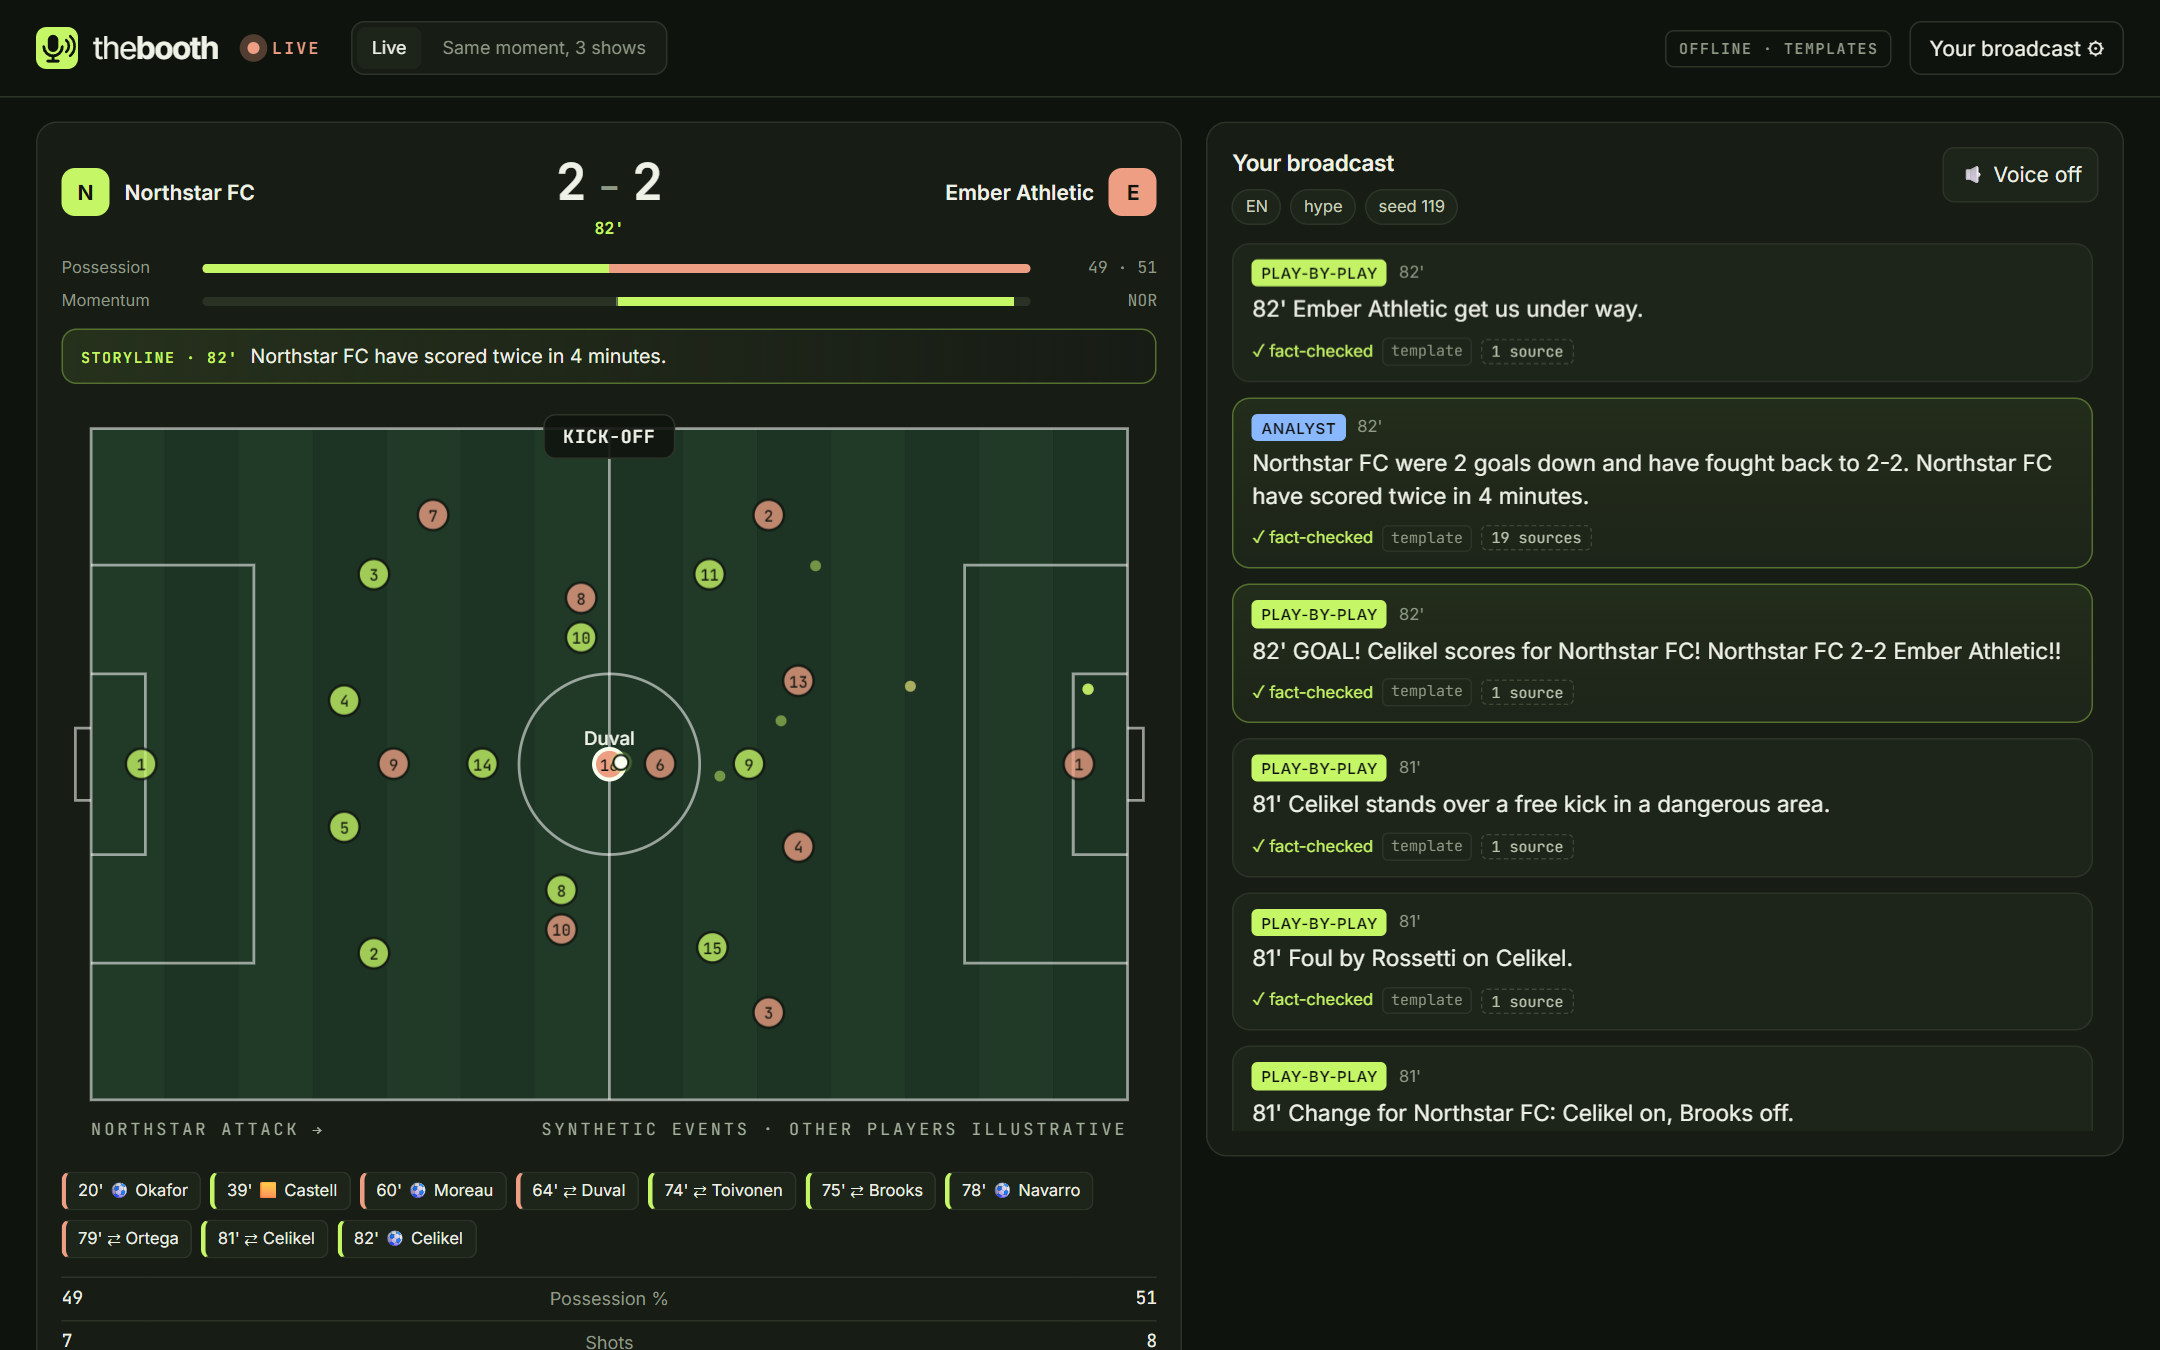
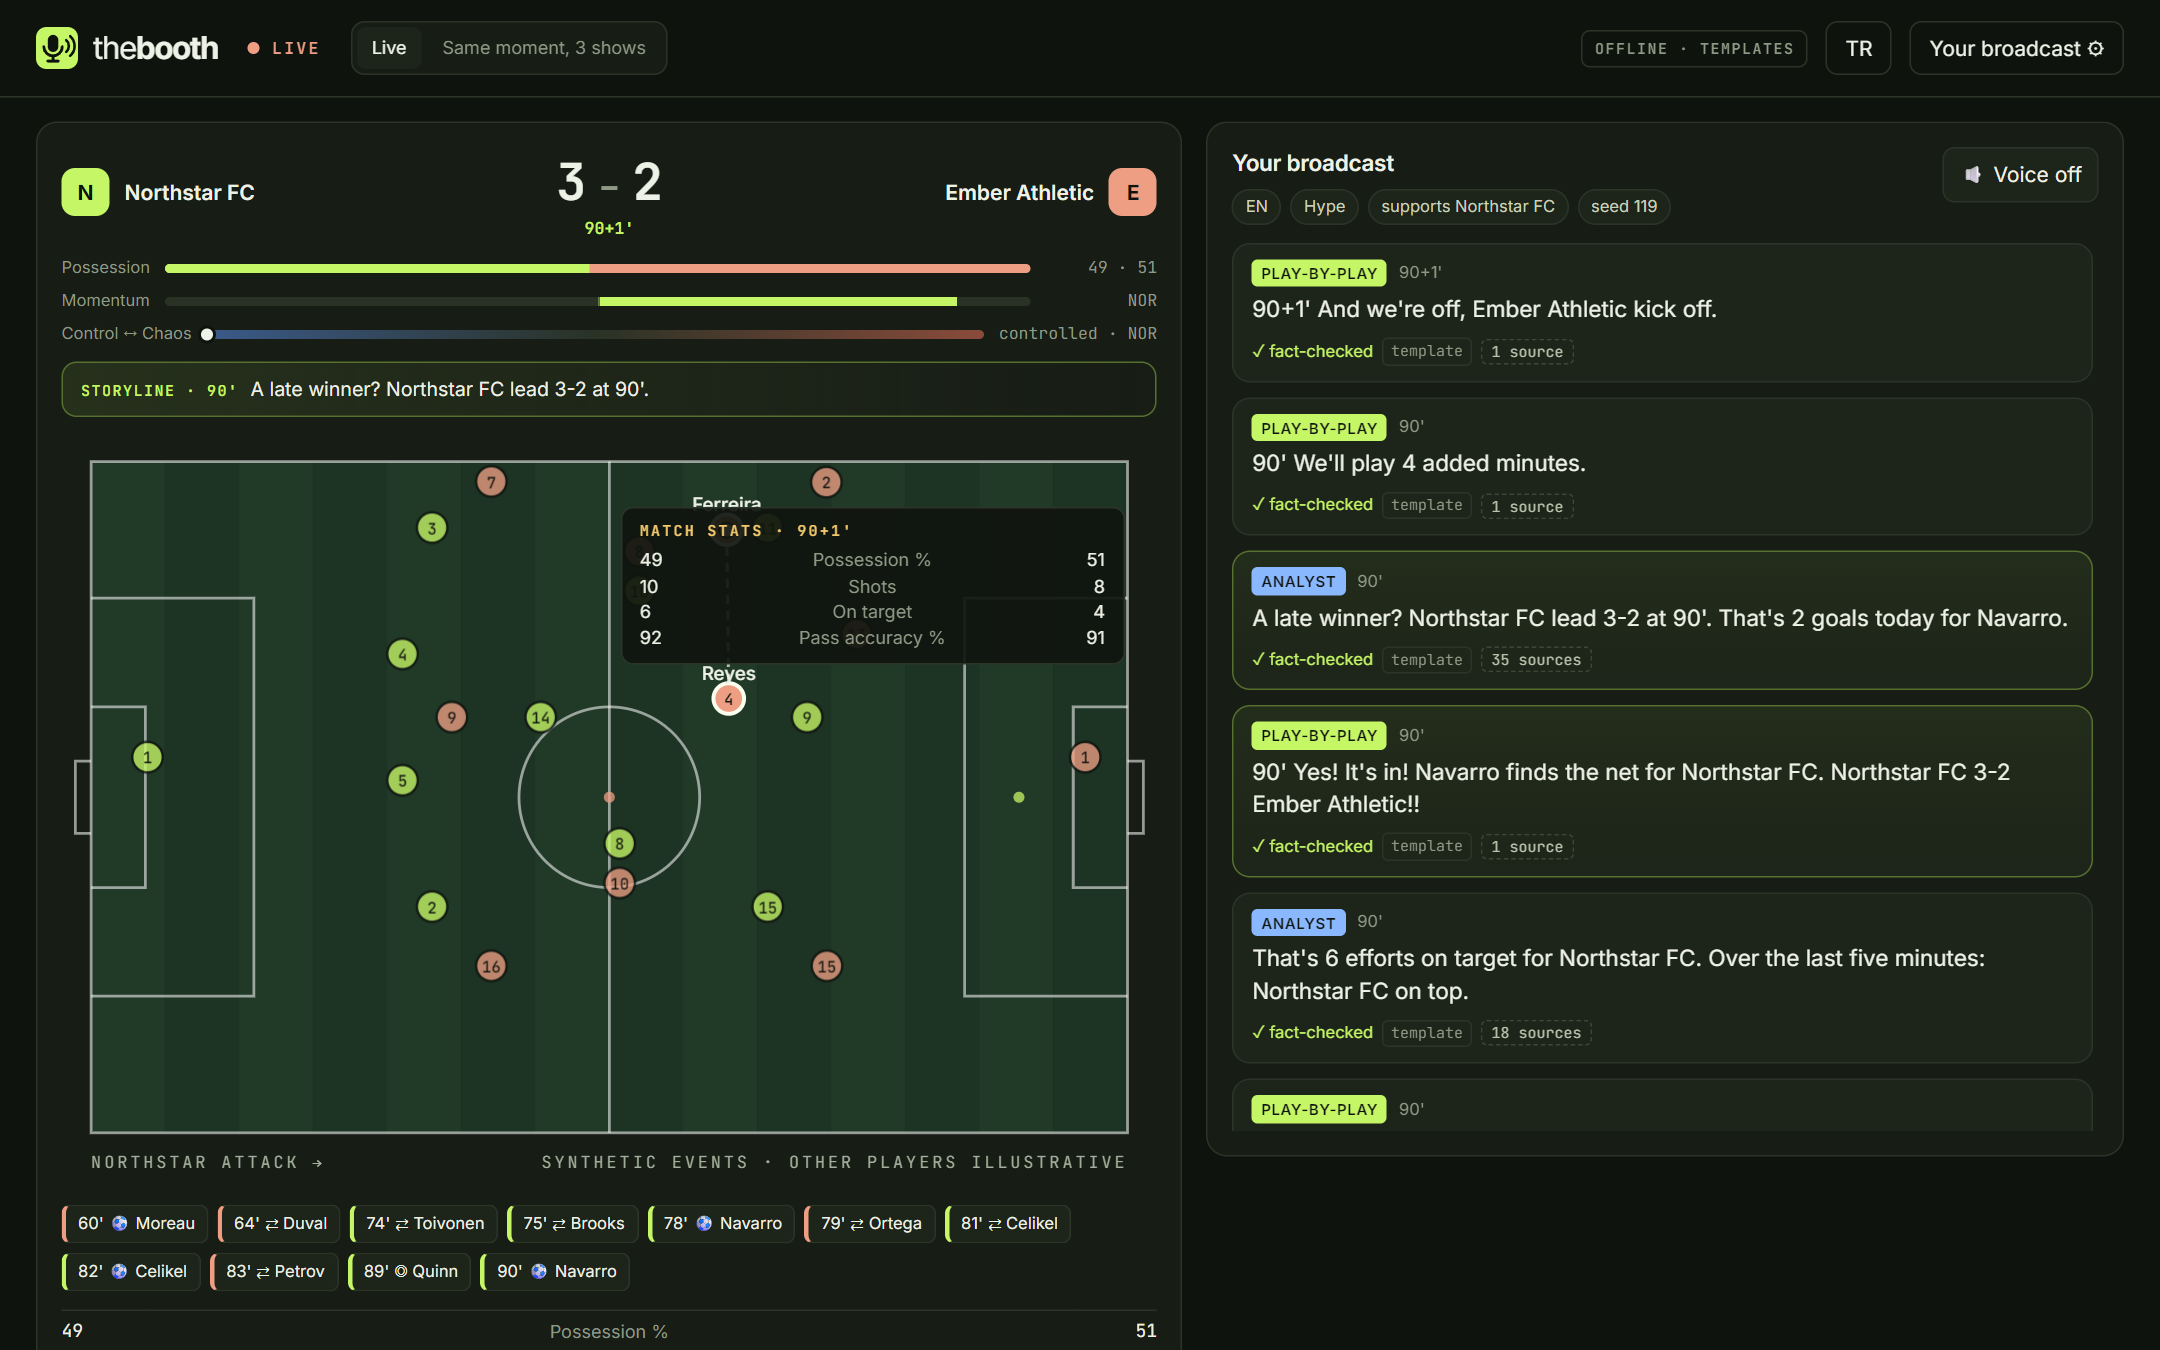
Map the brief in the README, add overlay/club browser test, refresh screenshots
- README: five-stage pipeline and suggested features, with what is and
  isn't covered (no running speed or video auto-eventing)
- Pitch and demo script mention metrics, favorite club and overlays
- Browser test for lower thirds, club mode and new stat rows
- Screenshots in English with club mode and overlays

diff --git a/frontend/styles.css b/frontend/styles.css
@@ -60,7 +60,7 @@ h2 { margin: 0; font-size: 15px; font-weight: 600; letter-spacing: -0.2px; }
 .score i { color: var(--muted); font-style: normal; font-size: 24px; }
 .score small { position: absolute; bottom: -2px; left: 50%; transform: translateX(-50%); font-size: 11px; color: var(--lime); }
 .bars { margin: 14px 0 10px; display: grid; gap: 6px; }
-.bar-row { display: grid; grid-template-columns: max-content 1fr 74px; align-items: center; gap: 10px; font-size: 11px; color: var(--muted); }
+.bar-row { display: grid; grid-template-columns: max-content 1fr minmax(74px, max-content); align-items: center; gap: 10px; font-size: 11px; color: var(--muted); }
 .bar-row > span:last-child { text-align: right; font-family: var(--mono); }
 .split-bar, .momentum { height: 6px; border-radius: 4px; background: var(--coral); overflow: hidden; position: relative; }
 .split-bar i { display: block; height: 100%; width: 50%; background: var(--lime); transition: width .6s; }

diff --git a/backend/tests/e2e/test_ui.py b/backend/tests/e2e/test_ui.py
@@ -124,3 +124,16 @@ def test_interface_switches_to_turkish_and_remembers_it(page, base_url):
     assert page.locator("#goLive").inner_text() == "Yayına başla"
     page.click("#uiLang")
     assert page.locator(".control-room h2").inner_text() == "Control room"
+
+
+def test_overlays_metrics_and_favorite_club(page, base_url):
+    page.goto(f"{base_url}/?live=1&seed=119&lang=en&style=hype&club=home&start=89&speed=10")
+    playwright_api.expect(page.locator("#lowerThird")).to_contain_text("GOAL", timeout=20_000)
+    playwright_api.expect(page.locator("#feed")).to_contain_text("Yes!")
+    assert "supports Northstar FC" in page.locator("#profileChips").inner_text()
+    stats = page.locator("#statsBody").inner_text()
+    assert "Pass accuracy %" in stats and "Fastest shot (km/h)" in stats
+    assert (
+        page.locator("#chaosLabel").inner_text() in ("controlled", "open", "chaotic")
+        or "·" in page.locator("#chaosLabel").inner_text()
+    )

diff --git a/README.md b/README.md
@@ -53,6 +53,31 @@ The **control room** panel shows every hand-off live: what the director planned,
 - **One crew, many viewers.** Segments are cached per (event, profile), and the English world feed is shared before localization, so viewers with the same profile don't cost extra model calls.
 - **No future leaks.** Agents read a frozen snapshot taken at the moment of the event.
 
+## How it meets the challenge
+
+The brief asks for one pipeline with five stages. Here is where each one lives:
+
+| Stage | In The Booth |
+|---|---|
+| **Ingest** synthetic events as they happen | Seeded generator (`booth/sim`) streams ~1,000 events per match (passes, tackles, interceptions, shots, possession changes, cards, set pieces, subs) on a live match clock |
+| **Interpret** into stats, patterns and context | Shared `MatchState`: score, possession, momentum, pass accuracy and difficulty, shot speed, rhythm (control vs chaos); the **storyline agent** finds comebacks, late winners, braces, quick-fire goals, spells of control |
+| **Explain** why a moment matters | Analyst, recap editor and guide explain moments with fact-checked numbers; every line links to its sources; rule explainers for newcomers |
+| **Render** on screen alongside the match | Pitch with all 22 players, storyline banner, stat rows and call-outs; **timed overlay cues** (score bug, lower thirds, stat cards, player tags) for a graphics engine: [docs/OVERLAYS.md](docs/OVERLAYS.md) |
+| **Personalize** for every fan | Language, style (hype, calm, tactical, new to football), audio-first mode, favorite club, followed player; "same moment, three shows" puts the difference side by side |
+
+And the suggested features:
+
+| Suggested in the brief | Status |
+|---|---|
+| Player identification with speed and distance indicators at thresholds | Players named on the pitch; shot speed and pass distance tags appear on the player at thresholds. Running speed and distance covered are **not** modeled (event data, no tracking) |
+| Pass quality: distance, accuracy, difficulty rating | Done: per-pass distance, metres gained, 0-100 difficulty; team pass accuracy |
+| Speed metrics: ball speed, shot speed | Done: synthetic estimates on every pass and shot |
+| Auto-eventing from a video feed | **Not in scope**: we generate synthetic events instead of reading video |
+| Narrative generation, milestones, recaps | Done: storyline agent, analyst, half and full-time recaps |
+| Explainability: control vs chaos, pressure changes, rhythm | Done: rhythm meter, momentum, storyline announcements when a team takes control or the game breaks up |
+| Data innovation: synthetic datasets | Done: `python -m booth.dataset` exports matches, events, players, storylines ([docs/DATASET.md](docs/DATASET.md)) |
+| Multi-language storytelling | English and Turkish templates; 12 languages with a model, translations refused if numbers change |
+
 ## Architecture
 
 ```mermaid
@@ -117,7 +142,7 @@ cd backend
 python -m booth.mcp_server            # stdio; add --http --port 8765 for streamable HTTP
 ```
 
-The MCP server exposes the stats desk and the crew as tools: `squads`, `highlights`, `score`, `team_stats`, `player_stats`, `storylines`, `events` and `broadcast_moment` (the fact-checked crew commentates one moment for a language and style). `.vscode/mcp.json` registers it for GitHub Copilot agent mode in VS Code.
+The MCP server exposes the stats desk and the crew as tools: `squads`, `highlights`, `score`, `team_stats`, `player_stats`, `storylines`, `events`, `overlay_cues` and `broadcast_moment` (the fact-checked crew commentates one moment for a language and style). `.vscode/mcp.json` registers it for GitHub Copilot agent mode in VS Code.
 
 ### Export the synthetic dataset
 
@@ -159,6 +184,7 @@ The tests include a scripted model that exercises the reject → rewrite hand-of
 | `GET /api/match/events?seed=42` | Full synthetic event log |
 | `GET /api/broadcast?seed=&lang=&style=&accessible=&follow=&speed=&start=` | Live broadcast as SSE: `hello`, `event`, `trace`, `segment`, `end` |
 | `POST /api/ask` | `{seed, minute, question, lang}`: answered from the stats desk at that minute |
+| `GET /api/overlays?seed=&lang=` | Timed overlay cues for broadcast graphics |
 | `GET /api/moments?seed=` | Highlights worth comparing (goals, penalties, red cards, big saves) |
 | `POST /api/tts` | `{text, lang}` → MP3 from Azure AI Speech (503 when not configured) |
 | `POST /api/compare` | `{seed, event_id, profiles?}`: the same moment broadcast for up to 4 profiles, with traces |

diff --git a/docs/PITCH.md b/docs/PITCH.md
@@ -8,7 +8,7 @@
 
 A live match is made by a crew (director, commentator, analyst, stats producer, translator), but that crew makes one show, in one language, for everyone. Fans who speak another language, people new to the game and blind or low-vision fans are left with a broadcast that wasn't made for them.
 
-The Booth replays synthetic, football-realistic match events and runs a multi-agent crew per viewer. A director agent decides what matters to *this* viewer. A storyline agent remembers the whole match, so the crew can say "they were two down and have fought back" instead of just "goal". A stats producer pulls context through tool calls on a shared match state. Play-by-play, analyst and recap agents write the broadcast. A fact-checker blocks any number or name it can't trace to the data and hands rejected drafts back for a rewrite. A localizer adapts the feed into the viewer's language and is refused if a number changes. An audio-first mode describes where the ball is on the pitch and reads everything aloud.
+The Booth replays synthetic, football-realistic match events and runs a multi-agent crew per viewer. A director agent decides what matters to *this* viewer. A storyline agent remembers the whole match, so the crew can say "they were two down and have fought back" instead of just "goal". A stats producer pulls context through tool calls on a shared match state. Play-by-play, analyst and recap agents write the broadcast. A fact-checker blocks any number or name it can't trace to the data and hands rejected drafts back for a rewrite. A localizer adapts the feed into the viewer's language and is refused if a number changes. An audio-first mode describes where the ball is on the pitch and reads everything aloud. Fans can pick a favorite club and a player to follow. Pass difficulty, pass accuracy, shot speed and a control-vs-chaos rhythm meter explain how the game is being played, and every graphic is emitted as a timed overlay cue a broadcaster's graphics engine can render.
 
 The result is one match, many broadcasts: a hype call in English, a calm Turkish explainer for a newcomer and a tactical breakdown, all from the same moment and all verified. The control room shows every hand-off live, and the crew degrades gracefully: on a timeout, quota error or rejected draft it falls back to labelled templates, so the show never stops.
 

diff --git a/docs/DEMO.md b/docs/DEMO.md
@@ -20,6 +20,7 @@ Rules from the brief: **under 2:00**, show the project running, public link (You
 | 0:25–0:45 | Go live at minute 76. Pitch moves, feed fills, voice reads aloud, a rule explainer appears | "Agents commentate live. The guide explains the rules when they come up, and tells me where the ball is, because I can't see it." |
 | 0:45–1:05 | Control room: director planned, stats producer tool calls, fact-checker approved / rejected, localizer | "Behind it is a multi-agent crew on Microsoft Agent Framework and Foundry. The director decides what matters to me. The stats producer pulls numbers with tool calls. The fact-checker blocks anything it can't trace to the data and sends it back for a rewrite." |
 | 1:05–1:30 | "Same moment, 3 shows": the 90' winner, three columns | "Same goal, three fans: a hype call in English, a calm Turkish explainer, a tactical breakdown. Every line is verified. Click any line to see its sources." |
+| (optional, if time) | Favorite club = Northstar: the 90' winner opens with "Yes!"; a lower third and a stat card slide over the pitch | "Pick your club and the booth is on your side, but never makes up a number." |
 | 1:30–1:45 | Ask the booth: "Who's had more of the ball?" → answer with sources | "Fans can ask questions, answered only from the stats desk at the minute they're watching." |
 | 1:45–1:58 | Application Insights trace, or the GitHub repo, then the end card | "It runs on Azure Container Apps with every agent hand-off traced in Application Insights. The Booth: one match, a broadcast for every fan." |
 
